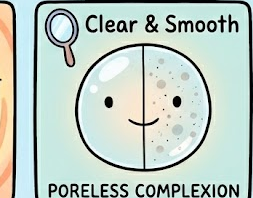
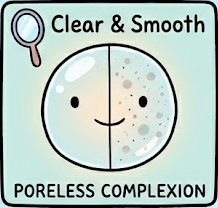
fix: perfectly crop the cartoon faces to remove messy borders

diff --git a/find_grid.py b/find_grid.py
@@ -1,0 +1,36 @@
+from PIL import Image
+
+img = Image.open('/Users/jmoncayopursuit.org/.gemini/antigravity/brain/42d94f3e-aff2-4ef1-9da0-bd7a2fa82c70/media__1778099338686.png').convert('RGB')
+pixels = img.load()
+width, height = img.size
+
+# Find horizontal lines (rows with many black pixels)
+row_black_counts = []
+for y in range(height):
+    black_count = 0
+    for x in range(width):
+        r, g, b = pixels[x, y]
+        if r < 40 and g < 40 and b < 40:
+            black_count += 1
+    row_black_counts.append(black_count)
+
+# Print rows that have a significant number of black pixels (likely horizontal borders)
+print("Horizontal lines at Y:")
+for y, count in enumerate(row_black_counts):
+    if count > 300: # at least 300 black pixels means a solid horizontal line across the 4 boxes
+        print(f"y={y}: {count} black pixels")
+
+# Find vertical lines
+col_black_counts = []
+for x in range(width):
+    black_count = 0
+    for y in range(height):
+        r, g, b = pixels[x, y]
+        if r < 40 and g < 40 and b < 40:
+            black_count += 1
+    col_black_counts.append(black_count)
+
+print("Vertical lines at X:")
+for x, count in enumerate(col_black_counts):
+    if count > 150:
+        print(f"x={x}: {count} black pixels")

diff --git a/perfect_crop.py b/perfect_crop.py
@@ -1,0 +1,22 @@
+from PIL import Image
+import os
+
+img = Image.open('/Users/jmoncayopursuit.org/.gemini/antigravity/brain/42d94f3e-aff2-4ef1-9da0-bd7a2fa82c70/media__1778099338686.png').convert('RGB')
+
+# Exact coordinates mapped from grid analysis
+boxes = [
+    ('radiant_cartoon.png', (54, 81, 272, 289)),
+    ('clear_cartoon.png', (290, 81, 508, 289)),
+    ('youthful_cartoon.png', (526, 81, 744, 289)),
+    ('skip1', (761, 81, 979, 289)),
+    ('bright_eyes_cartoon.png', (54, 300, 272, 507)),
+    ('calm_cartoon.png', (290, 300, 508, 507)),
+    ('skip2', (526, 300, 744, 507)),
+    ('spotfree_cartoon.png', (761, 300, 979, 507)),
+]
+
+for name, coords in boxes:
+    if 'skip' in name: continue
+    crop = img.crop(coords)
+    crop.save(f'public/glow-ups/{name}')
+    print(f'Perfectly cropped {name}')
